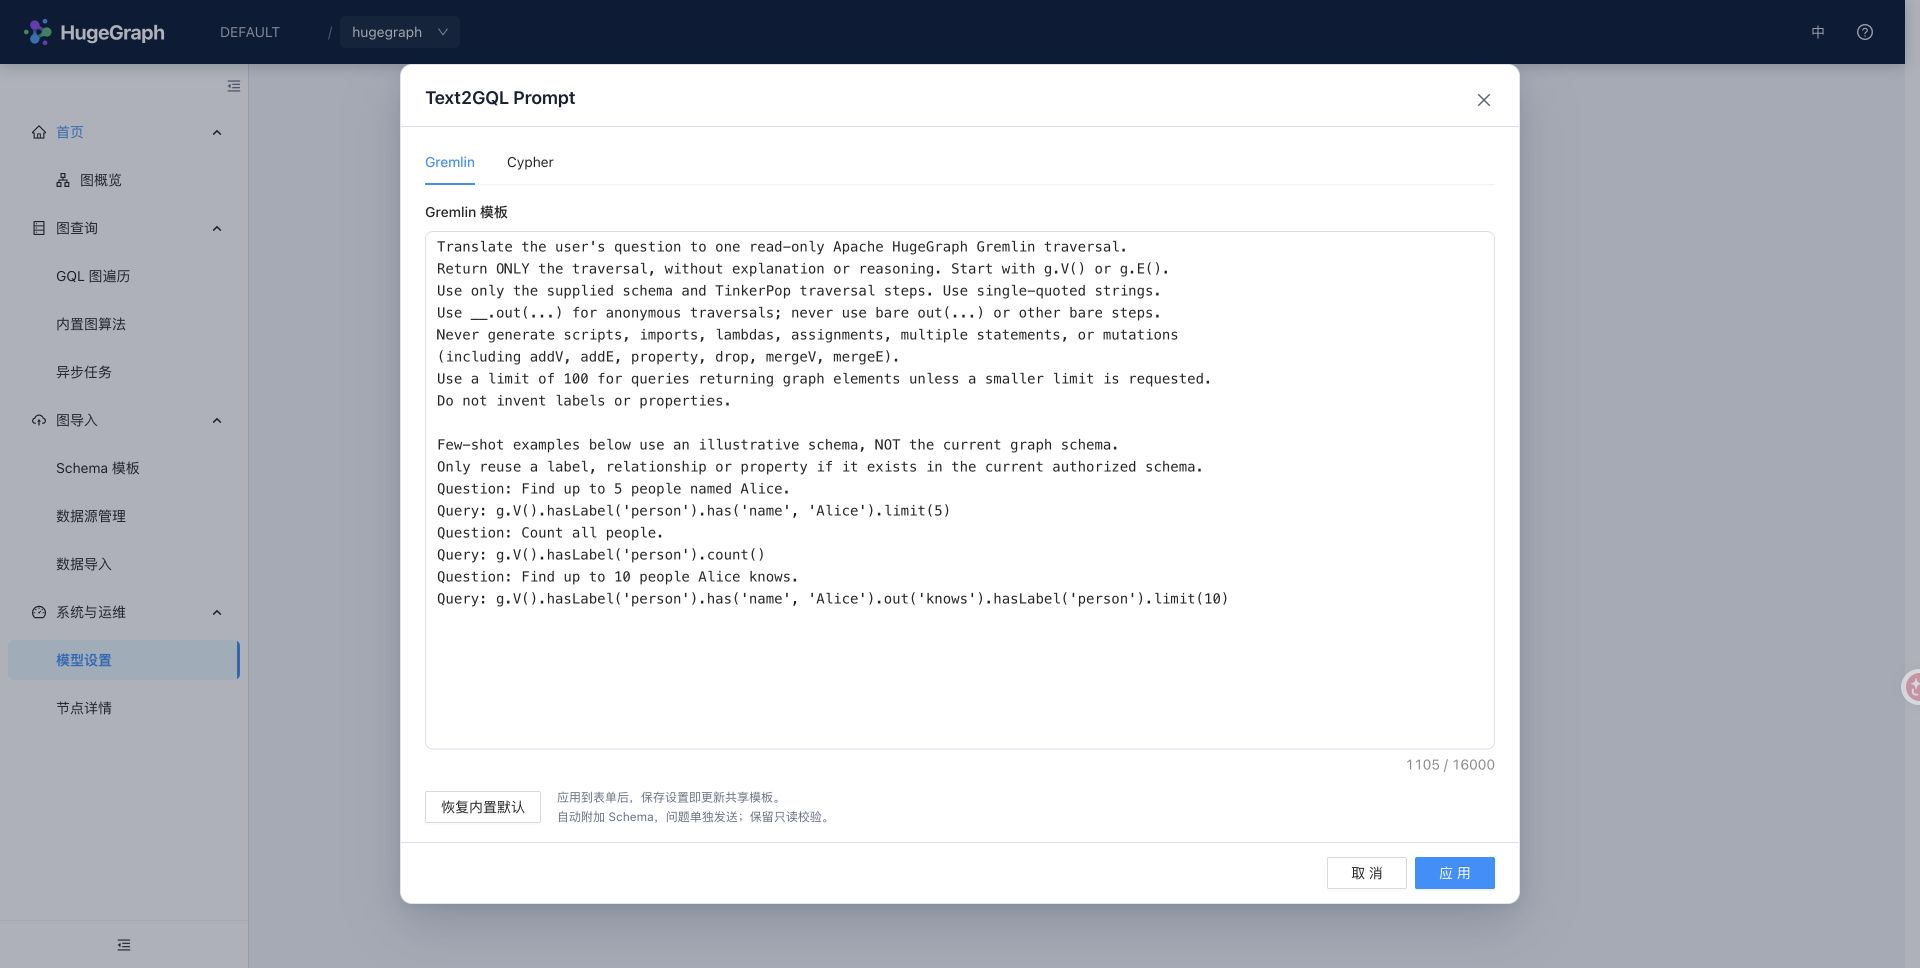
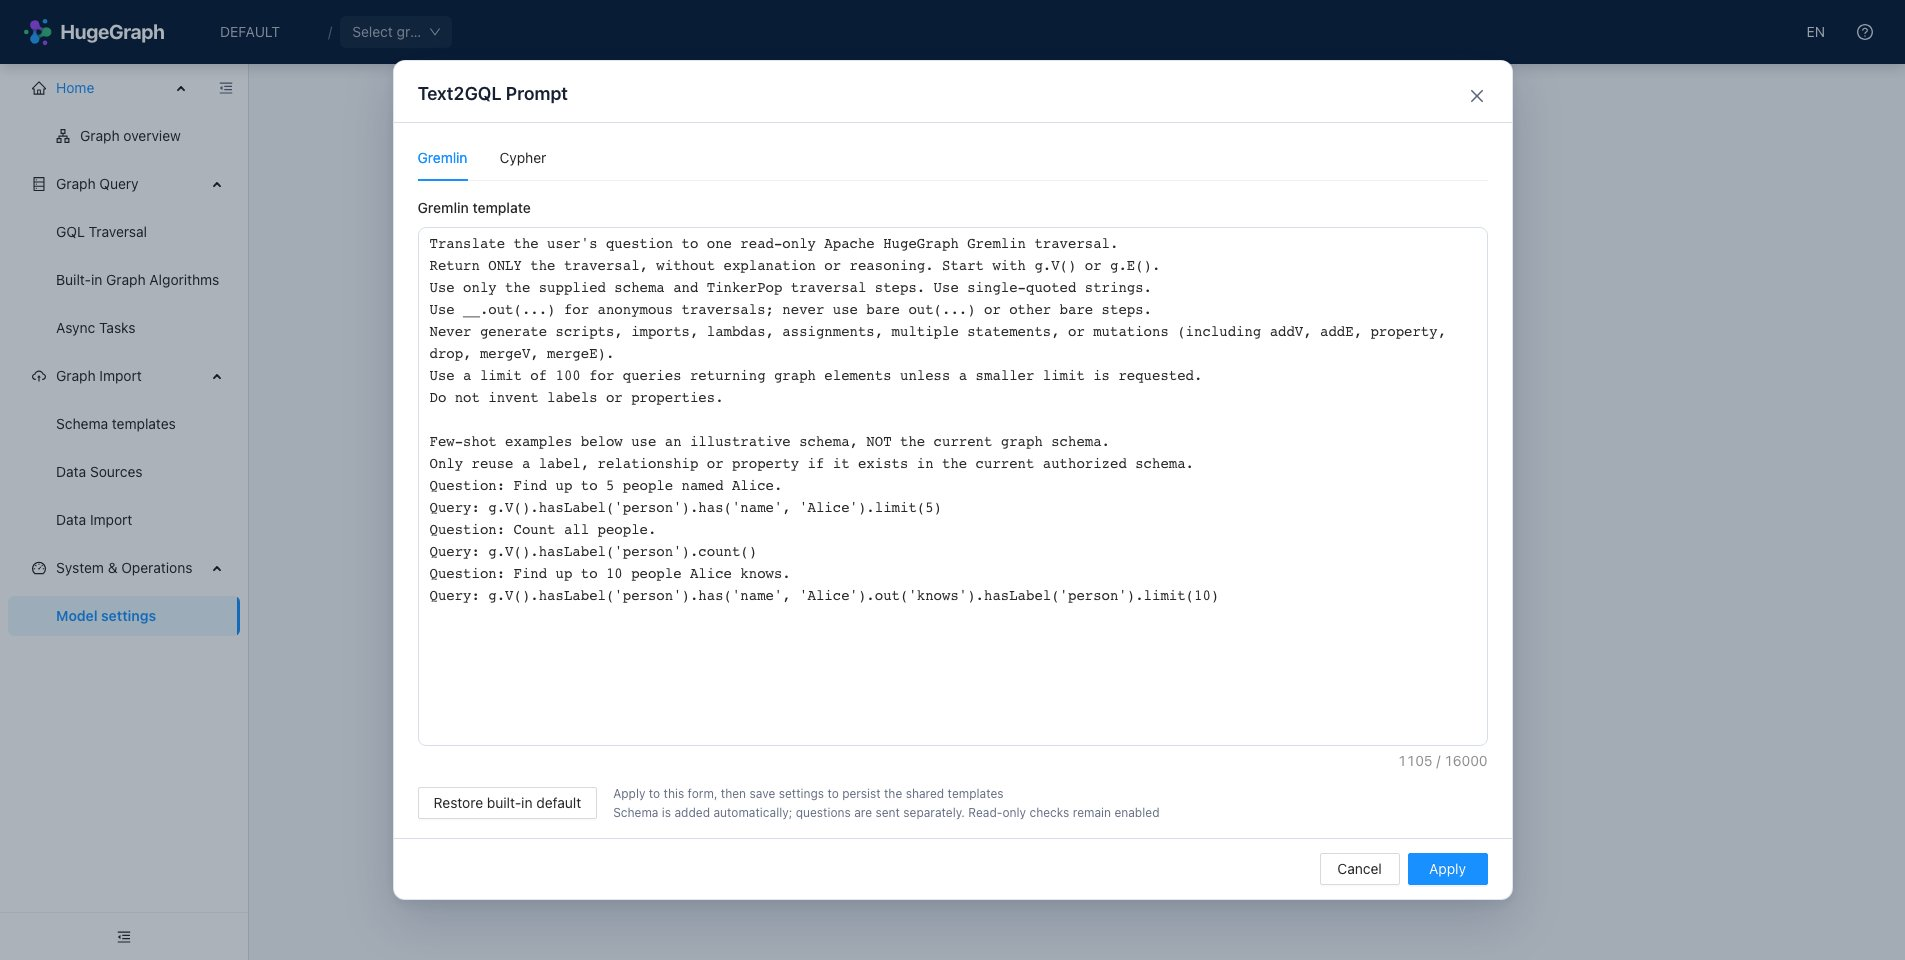
docs(hubble): address review comments on PR #540
- add note on Text2GQL backend dependency on apache/hugegraph-toolchain#824
- remove duplicate opening sentence in Chinese guide
- recapture English Text2GQL screenshots with en-US locale
- restore loopback publishing (127.0.0.1:8088) and document HUBBLE_PUBLISH_HOST
- clarify that set-hubble-pd-password.sh writes HG_PD_AUTH_SECRET_KEY into generated config

diff --git a/content/cn/docs/quickstart/toolchain/hugegraph-hubble.md b/content/cn/docs/quickstart/toolchain/hugegraph-hubble.md
@@ -33,8 +33,8 @@ cd hugegraph/docker
 已预设 `pd.enabled=false` 与 `server.direct_url=http://server:8080`。两项服务处于同一 Docker 网络中通信，
 无需为每个图单独配置 Server 地址。请直接在 `docker/` 目录下启动，以确保相对配置路径有效。
 
-Hubble 默认监听宿主机 `8088` 端口；Server 默认发布 `8080`。若仅供本机试用，可将 Compose 中 Server 的
-`ports` 改为 `127.0.0.1:8080:8080`，避免匿名端口暴露到外部网络。
+Hubble 默认只在宿主机回环地址开放 `8088`（由 `HUBBLE_PUBLISH_HOST` 环境变量控制，默认为 `127.0.0.1`）；
+Server 默认对外发布 `8080`。若仅供本机试用，可将 Compose 中 Server 的 `ports` 改为 `127.0.0.1:8080:8080`，避免匿名端口暴露到外部网络。
 
 为本次试用指定一个独立的项目名，后续命令在同一终端中沿用这些环境变量；另起终端时请重新设置：
 
@@ -64,7 +64,6 @@ Compose 中的 `server-data` 与 `hubble-data` 卷分别持久化保存图数据
 
 ## 首页：找到当前任务的入口
 
-首页按“图概览 → 图导入 → 图查询”组织工作入口，适合第一次使用时了解整体流程。
 首页按“图概览 → 图导入 → 图查询”组织核心工作流。左侧导航栏可随时切换各功能模块；
 顶部的图选择器用于切换当前操作的目标图，所有查询、Schema 操作和异步任务均作用于当前选中的图。
 单机模式下仅包含默认的 `DEFAULT` 图空间，无需配置 PD。
@@ -142,6 +141,10 @@ g.V().hasLabel('person').outE('created').inV().path()
 Cypher 查询仅在 Server 后端支持时提供。快捷键会作用于当前获得焦点的输入框（在自然语言框中生成查询，在语句框中执行已有语句）。
 
 ### Text2GQL 自然语言查询 {#text2gql}
+
+> [!NOTE]
+> Text2GQL 后端能力（包括模型设置、内置/临时模型管理与 Prompt 模板）依赖包含
+> [apache/hugegraph-toolchain#824](https://github.com/apache/hugegraph-toolchain/pull/824) 的 Hubble 构建或后续发布版本；未合入该特性的旧版本仅提供预览占位，不包含模型设置页面。
 
 在【自然语言】输入框中用自然语言描述查询需求，Text2GQL 会结合当前图的 Schema 自动生成只读 Gremlin 或 Cypher 语句并执行查询。
 生成的语句支持二次编辑（执行前同样会进行只读安全校验）。切换至【异步】模式时，生成的查询与手写查询均可提交为后台异步任务。

diff --git a/content/en/docs/quickstart/toolchain/hugegraph-hubble.md b/content/en/docs/quickstart/toolchain/hugegraph-hubble.md
@@ -34,8 +34,9 @@ If you already have the repository locally, navigate directly to its `docker/` d
 which pre-configures `pd.enabled=false` and `server.direct_url=http://server:8080`. Because both services communicate over a shared Docker network,
 you do not need to configure Server endpoints per graph. Start Compose directly from `docker/` so relative file paths resolve correctly.
 
-Hubble listens on host port `8088` by default; Server publishes `8080`. For a local trial, set Server's
-`ports` in Compose to `127.0.0.1:8080:8080` to prevent exposing unauthenticated ports beyond loopback.
+Hubble publishes on host loopback port `8088` by default (controlled by `HUBBLE_PUBLISH_HOST`, defaulting to `127.0.0.1`), whereas Server publishes
+`8080` across all interfaces. For a local trial, set Server's `ports` in Compose to `127.0.0.1:8080:8080` to prevent exposing unauthenticated ports
+beyond loopback (set `HUBBLE_PUBLISH_HOST=0.0.0.0` if remote access to Hubble is required).
 
 Choose an unused project name for this trial and keep these variables in the same terminal session:
 
@@ -151,6 +152,11 @@ The keyboard shortcut acts on whichever input currently has focus: generating a 
 the natural language prompt, or running statements in the code editor.
 
 ### Text2GQL natural-language queries {#text2gql}
+
+> [!NOTE]
+> The Text2GQL backend capabilities (including Model settings, built-in/temporary models, and Prompt templates) require a Hubble build with
+> [apache/hugegraph-toolchain#824](https://github.com/apache/hugegraph-toolchain/pull/824) or a release containing it.
+> Earlier builds display a preview tab without model management.
 
 Describe your query requirement in the **Natural language** input. Text2GQL combines the current graph schema to generate read-only Gremlin or Cypher
 and execute it automatically. Generated statements can be edited freely (read-only safety checks still apply before execution).

diff --git a/content/en/docs/quickstart/toolchain/visualization/hugegraph-hubble-hstore.md b/content/en/docs/quickstart/toolchain/visualization/hugegraph-hubble-hstore.md
@@ -32,7 +32,7 @@ and collects cluster information from PD and Store. Hubble does not read or writ
    ./set-hubble-pd-password.sh hstore
    ```
 
-   The script reads `HG_PD_AUTH_SECRET_KEY` from `.env` and writes the generated PD operations password to the host file
+   The script reads `HG_PD_AUTH_SECRET_KEY` from `.env` and writes its value as `operations.pd.password` into the generated file
    `docker/conf/hubble/hstore.local.properties`. Edit this generated file to adjust connection or operations settings (do not overwrite
    the tracked `.example` template), ensuring `operations.pd.password` matches the PD secret. Compose mounts this file read-only into
    the container; do not edit inside the container. Both `.env` and the generated file contain secrets and should not be committed to Git.
